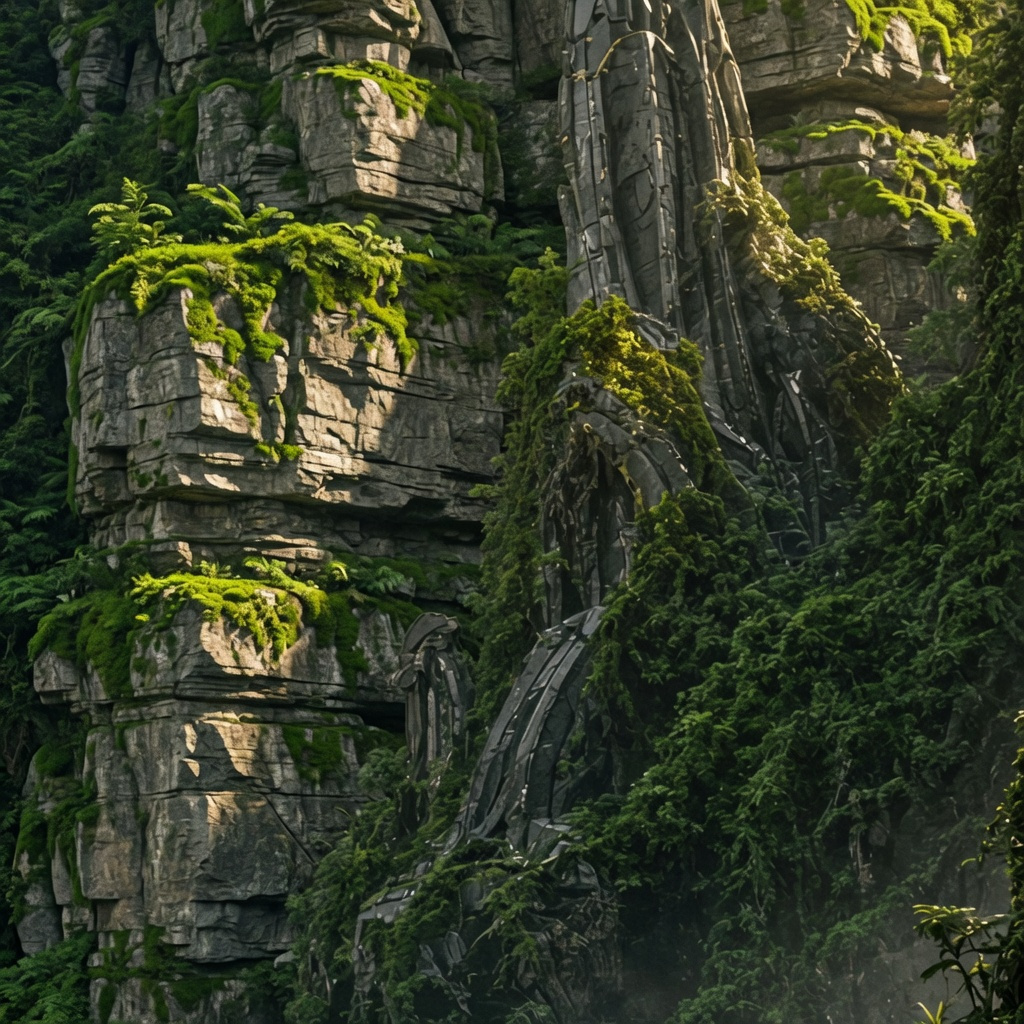
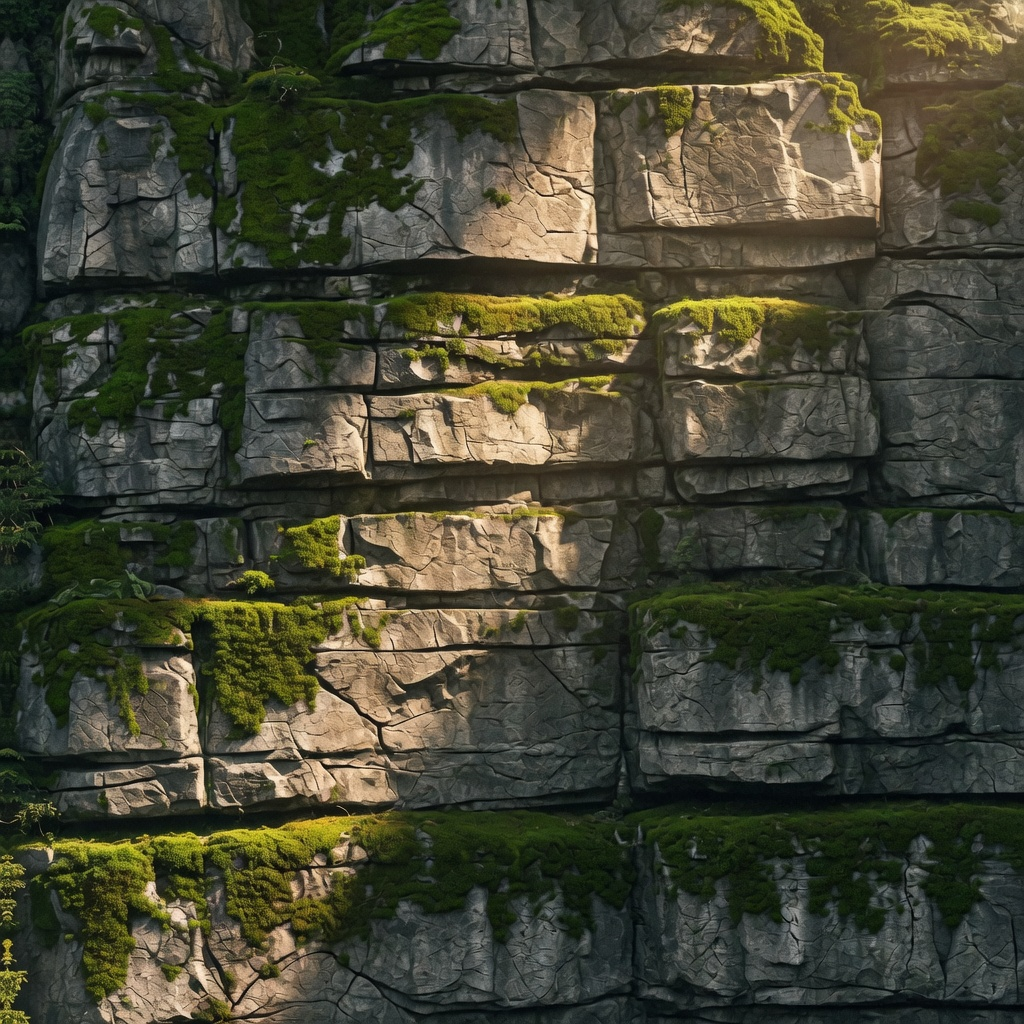
Zone C plates: redo the right arch inner and the right wall.
SmiR kept the other nine. Plate 6 is a flat stone band, plate 8 is a face-on wall, and the contact sheet was rebuilt in code.

diff --git a/SPEC-ZC-PLATES-REDO-1012.md b/SPEC-ZC-PLATES-REDO-1012.md
@@ -1,0 +1,48 @@
+# Zone C plates redo: #6 and #8 only (`zc/04-plates`, 12 Oct, SmiR GO 06:38)
+
+Zone C "Cascade Verdance". Redo **only** plates #6 and #8. The other 9 plates are validated by SmiR (see `steps/zone-c/04-plates/VALIDATED.md`) — **do not overwrite them**.
+
+kit-gate: python3 steps/zone-c/04-plates/check-plates.py
+<!-- kit-gate-outdir: steps/zone-c/04-plates -->
+
+## Read first
+GROK.md, docs/METHOD.md, learn/failures.md, `/workspace/x-live/chrome-game-home/.grok/bundled/skills/imagine/SKILL.md` (use `/bundled:imagine`), SPEC-ZC-PLATES-1012.md (original brief), `steps/zone-c/04-plates/REPORT.md`, `steps/zone-c/04-plates/VALIDATED.md`.
+
+## Inputs (FIXED)
+- Key: `steps/zone-c/04-plates/key-zc1.jpg` (or `/workspace/zc-bible-1011/key-zc1.jpg`)
+- Existing crops in `steps/zone-c/04-plates/crops/` (reuse; re-crop only if needed for a tighter stone-band / right-wall cut)
+- Validated reference: `plate-07-wall-left.jpg` (face-on left wall — style/structure for #8)
+- Do **not** touch: plates 05, 07, 09, 10, 11, 12, 13, 14, 15
+
+## Redo #6 — `plate-06-arch-right-inner.jpg`
+**Problem:** previous outputs showed a view *through* the right arch ring, not an unfolded flat inner surface.
+
+**Fix approach:**
+1. With PIL, crop a tight band of the **right arch's carved stone + moss** from the key (the stone thickness / soffit material only — not the full opening, not the canyon beyond). Save as e.g. `crops/crop-arch-right-band.jpg`.
+2. `image_edit` that crop. Prompt for a **flat, straight-on orthographic texture strip** of that same carved stone and moss, as if the inside surface were **unrolled flat**.
+3. Hard rejects: no ring, no opening, no through-hole, no canyon/background landscape, no horizon, no sky. Fill the frame with stone+moss texture only.
+4. Max **2** Imagine tries. Keep the better one as `plate-06-arch-right-inner.jpg`.
+
+## Redo #8 — `plate-08-wall-right.jpg`
+**Problem:** previous outputs kept cliff depth / perspective instead of face-on flat strata.
+
+**Fix approach:**
+1. Use `plate-07-wall-left.jpg` (validated) as style/structure reference **plus** a crop of the right wall from the key (`crops/crop-wall-right.jpg` or a tighter re-crop).
+2. `image_edit`: same strata as the key's right wall, seen **perfectly face-on**, flat, fill frame. No depth, no recession, no sky, no canyon floor.
+3. If the tool allows multi-reference or a second pass: also try **mirroring #7** + colour-matched right-wall crop as a fallback candidate; keep the better of flat-edit vs mirror+recolour.
+4. Max **2** Imagine tries for the main edit path (mirror fallback may use 1 extra if needed; do not exceed 3 total Imagine calls for #8). Keep the better one as `plate-08-wall-right.jpg`.
+
+## After replacements
+1. Rebuild `sheet-plates.jpg` in **code** (PIL): key on top, 11 labelled thumbnails #5–#15 (same layout as before). Never generate the sheet with Imagine.
+2. Refresh `SHA256SUMS` for the 11 plates + sheet + key copy.
+3. Update `REPORT.md` (add a "Redo 06:38" section: calls used, which approach won for #6 and #8) and `numbers.json` (`imagine_calls` = previous 13 + new calls).
+4. Run kit-gate: `python3 steps/zone-c/04-plates/check-plates.py` must PASS.
+
+## Deliver
+- Replaced #6 and #8 only; 9 validated files untouched
+- Updated sheet, sums, REPORT, numbers
+- Local commits on `zc/04-plates` only
+- **Do NOT** push, merge, reset --hard, or feed plates into any 3D / solids / terrain step
+- Do NOT touch other worktrees
+
+Max effort: redo #6+#8 + sheet + gate. Stop when gate PASSes.

diff --git a/steps/zone-c/04-plates/decree-brief.md b/steps/zone-c/04-plates/decree-brief.md
@@ -1,8 +1,8 @@
 # Decree brief
 
-Spec: `SPEC-ZC-PLATES-1012.md`
+Spec: `SPEC-ZC-PLATES-REDO-1012.md`
 Decrees: `/workspace/grokcli/wt/zc-plates-1012/decrees/decrees.jsonl`
-Keywords: remaining, imagine, plates, smir, cascade, verdance, bible, workspace, 1011, prompt, grok, build, rules, apply, branch, terrain, open, merged, mesh, place, validates, contact, sheet, first, gate, python3, steps, check, outdir, read, docs, method, learn, failures, live, chrome, game, home, bundled, skills, skill, spec, moss, already, done, confirmed, tools, image, edit, reference, video, prefer, crop, single, edits, keep, input, aspect, ratio, references, downscaled, long, side, model, pick, crops, composition, identity, colour, tiny, text, unavailable, native, test, shows, conditioning, write, report, stop, invent, style, pure, assemble, code, html, never, generation, cost, call, retry, clearly, wrong, inputs, fixed, 1792, 1008, copy, local, existing, regenerate, same, stone, warm, golden, green, palette, prep, useful, arch, left, right, openings, thickness, wall, strata, faces, waterfall, mist, leaf, fern, causeway, underside, cliff, foot, gorge, closure, planet, ringed, full, frame, boxes, json, generate, matching, save, under, pattern, subject, framing, inner, face, flattened, scene, horizon, canyon, orthographic, fill, straightened, water, motion, look, deep, perspective, veil, soft, flat, neutral, grey, background, landscape, isolated, match, foliage, skyline, walls, rings, banding, invented, resolution, available, tool, least, 1024, short, were, 1408, when, allows, watermark, logo, rule, should, object, burn, retries, taste, labelled, thumbnails, labels, drawn, sha256sums, verify, blocking, pass, exist, jpeg, size, heuristic, reject, quick, luminance, band, edge, density, suggests, filename, content, simple, scans, common, strings, optional, tesseract, present, else, skip, dimensions, blank, variance, exists, wider, tall, multi, panel, what, worked, count, calls, numbers, sizes, deliver, above, commits, push, merge, reset, hard, feed, these, solids, touch, other, worktrees, tower, effort, finish, validation
+Keywords: plates, redo, smir, cascade, verdance, other, validated, steps, overwrite, gate, python3, check, outdir, read, first, grok, docs, method, learn, failures, workspace, live, chrome, game, home, bundled, skills, imagine, skill, spec, 1012, original, brief, report, inputs, fixed, bible, 1011, existing, crops, reuse, crop, needed, tighter, stone, band, right, wall, reference, left, face, style, structure, touch, arch, inner, problem, previous, outputs, showed, view, through, ring, unfolded, flat, surface, approach, tight, carved, moss, thickness, soffit, material, full, opening, canyon, beyond, save, image, edit, prompt, straight, orthographic, texture, strip, same, inside, were, unrolled, hard, rejects, hole, background, landscape, horizon, fill, frame, tries, keep, better, kept, cliff, depth, perspective, instead, strata, plus, seen, perfectly, recession, floor, tool, allows, multi, second, pass, mirroring, colour, matched, fallback, candidate, mirror, recolour, main, path, extra, exceed, total, calls, replacements, rebuild, sheet, code, labelled, thumbnails, layout, never, generate, refresh, sha256sums, copy, update, section, used, which, numbers, json, deliver, replaced, files, untouched, updated, sums, local, commits, push, merge, reset, feed, solids, terrain, worktrees, effort, stop, when, passes, emerald, morning, highland
 
 No local decrees file. Nothing was invented.
 

diff --git a/steps/zone-c/04-plates/REPORT.md b/steps/zone-c/04-plates/REPORT.md
@@ -32,3 +32,16 @@ Imagine calls: **13** (11 first plates + 1 retry on #6 + 1 retry on #8). Moss #1
 8. Preview — not frozen. This step has no play tree, and the plates stay out of any 3D build.
 
 Known misses for the owner: #6 is the inside of the ring, not an unrolled soffit. #8 still has cliff depth. The planet plate fills the frame in the key’s cream, tan, and gold, with thin rings.
+
+## Redo 06:38
+
+SmiR kept plates 5, 7, and 9–15. This pass replaces only #6 and #8. Those nine files keep the hashes in the previous `SHA256SUMS`.
+
+Calls this pass: **3** `image_edit` (2 on #6, 1 on #8). Running total `imagine_calls` **16** (previous 13 + these 3). No `image_gen`. The sheet was rebuilt in PIL.
+
+| # | Approach | Calls | Winner |
+| --- | --- | --- | --- |
+| 6 | Tight square crop of the right-arch stone band (`crops/crop-arch-right-band.jpg`, 128×128), then one straighten edit of that result | 2 | Second file. Level courses of the same stone and moss. The first redo still carried a curved shadow. |
+| 8 | `plate-07-wall-left.jpg` plus a sky-free right-cliff crop (`crops/crop-wall-right-tight.jpg`, 280×280), aspect 1:1 | 1 | That file. Face-on strata. No mirror pass. |
+
+Both replacements are native 1024×1024. Sheet `1760×1686`, key on top, eleven labelled thumbs. `SHA256SUMS` rewritten for the eleven plates, the sheet, and the key copy. `python3 steps/zone-c/04-plates/check-plates.py` PASS. Preview was not frozen: there is no play tree, and these plates stay out of any 3D build. No session ndjson was in the worktree, so `tools/quota/quota.py` was not run.

diff --git a/steps/zone-c/04-plates/VALIDATED.md b/steps/zone-c/04-plates/VALIDATED.md
@@ -1,0 +1,27 @@
+# Zone C plates #5–#15 — SmiR validation
+
+**When:** 2026-10-12 06:38 Europe/Paris (UTC+2)
+**By:** SmiR
+
+## OK (do not regenerate)
+
+| # | File |
+| --- | --- |
+| 5 | `plate-05-arch-left-inner.jpg` |
+| 7 | `plate-07-wall-left.jpg` |
+| 9 | `plate-09-waterfall.jpg` |
+| 10 | `plate-10-mist.jpg` |
+| 11 | `plate-11-leaf.jpg` |
+| 12 | `plate-12-fern.jpg` |
+| 13 | `plate-13-causeway-underside.jpg` |
+| 14 | `plate-14-gorge-closure.jpg` |
+| 15 | `plate-15-planet.jpg` |
+
+## Redo only
+
+| # | File | Problem |
+| --- | --- | --- |
+| 6 | `plate-06-arch-right-inner.jpg` | View through the ring, not an unrolled flat inner surface |
+| 8 | `plate-08-wall-right.jpg` | Kept cliff depth / perspective; need face-on flat strata |
+
+See `SPEC-ZC-PLATES-REDO-1012.md` at worktree root.
